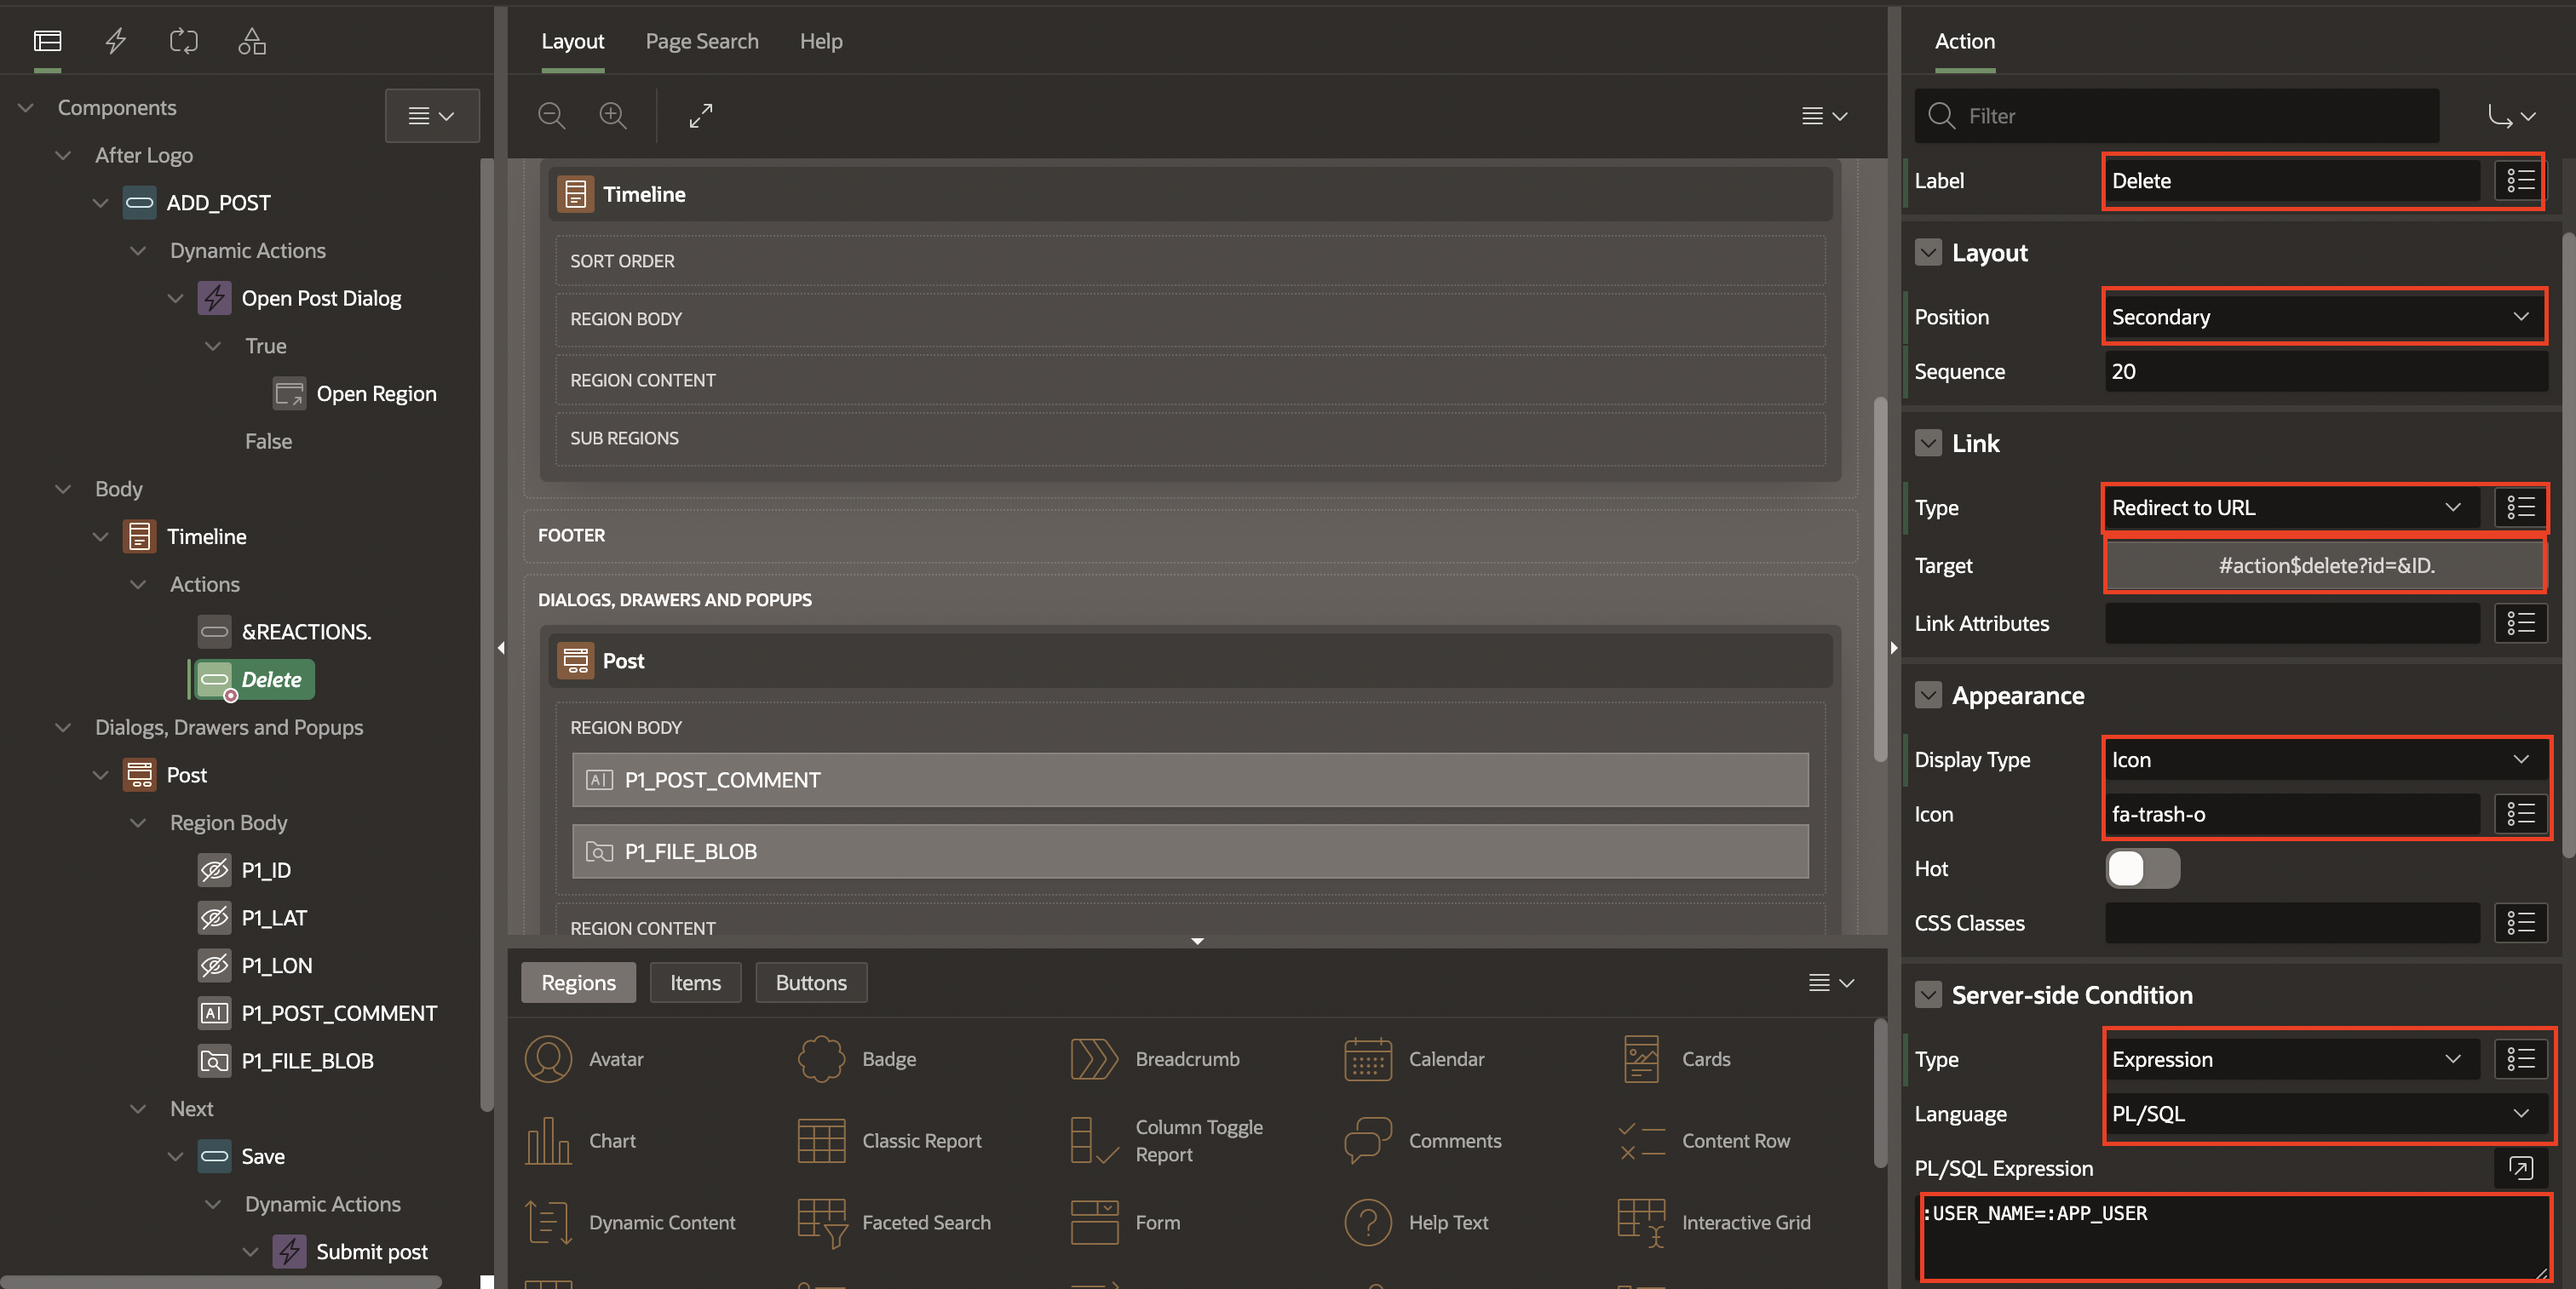
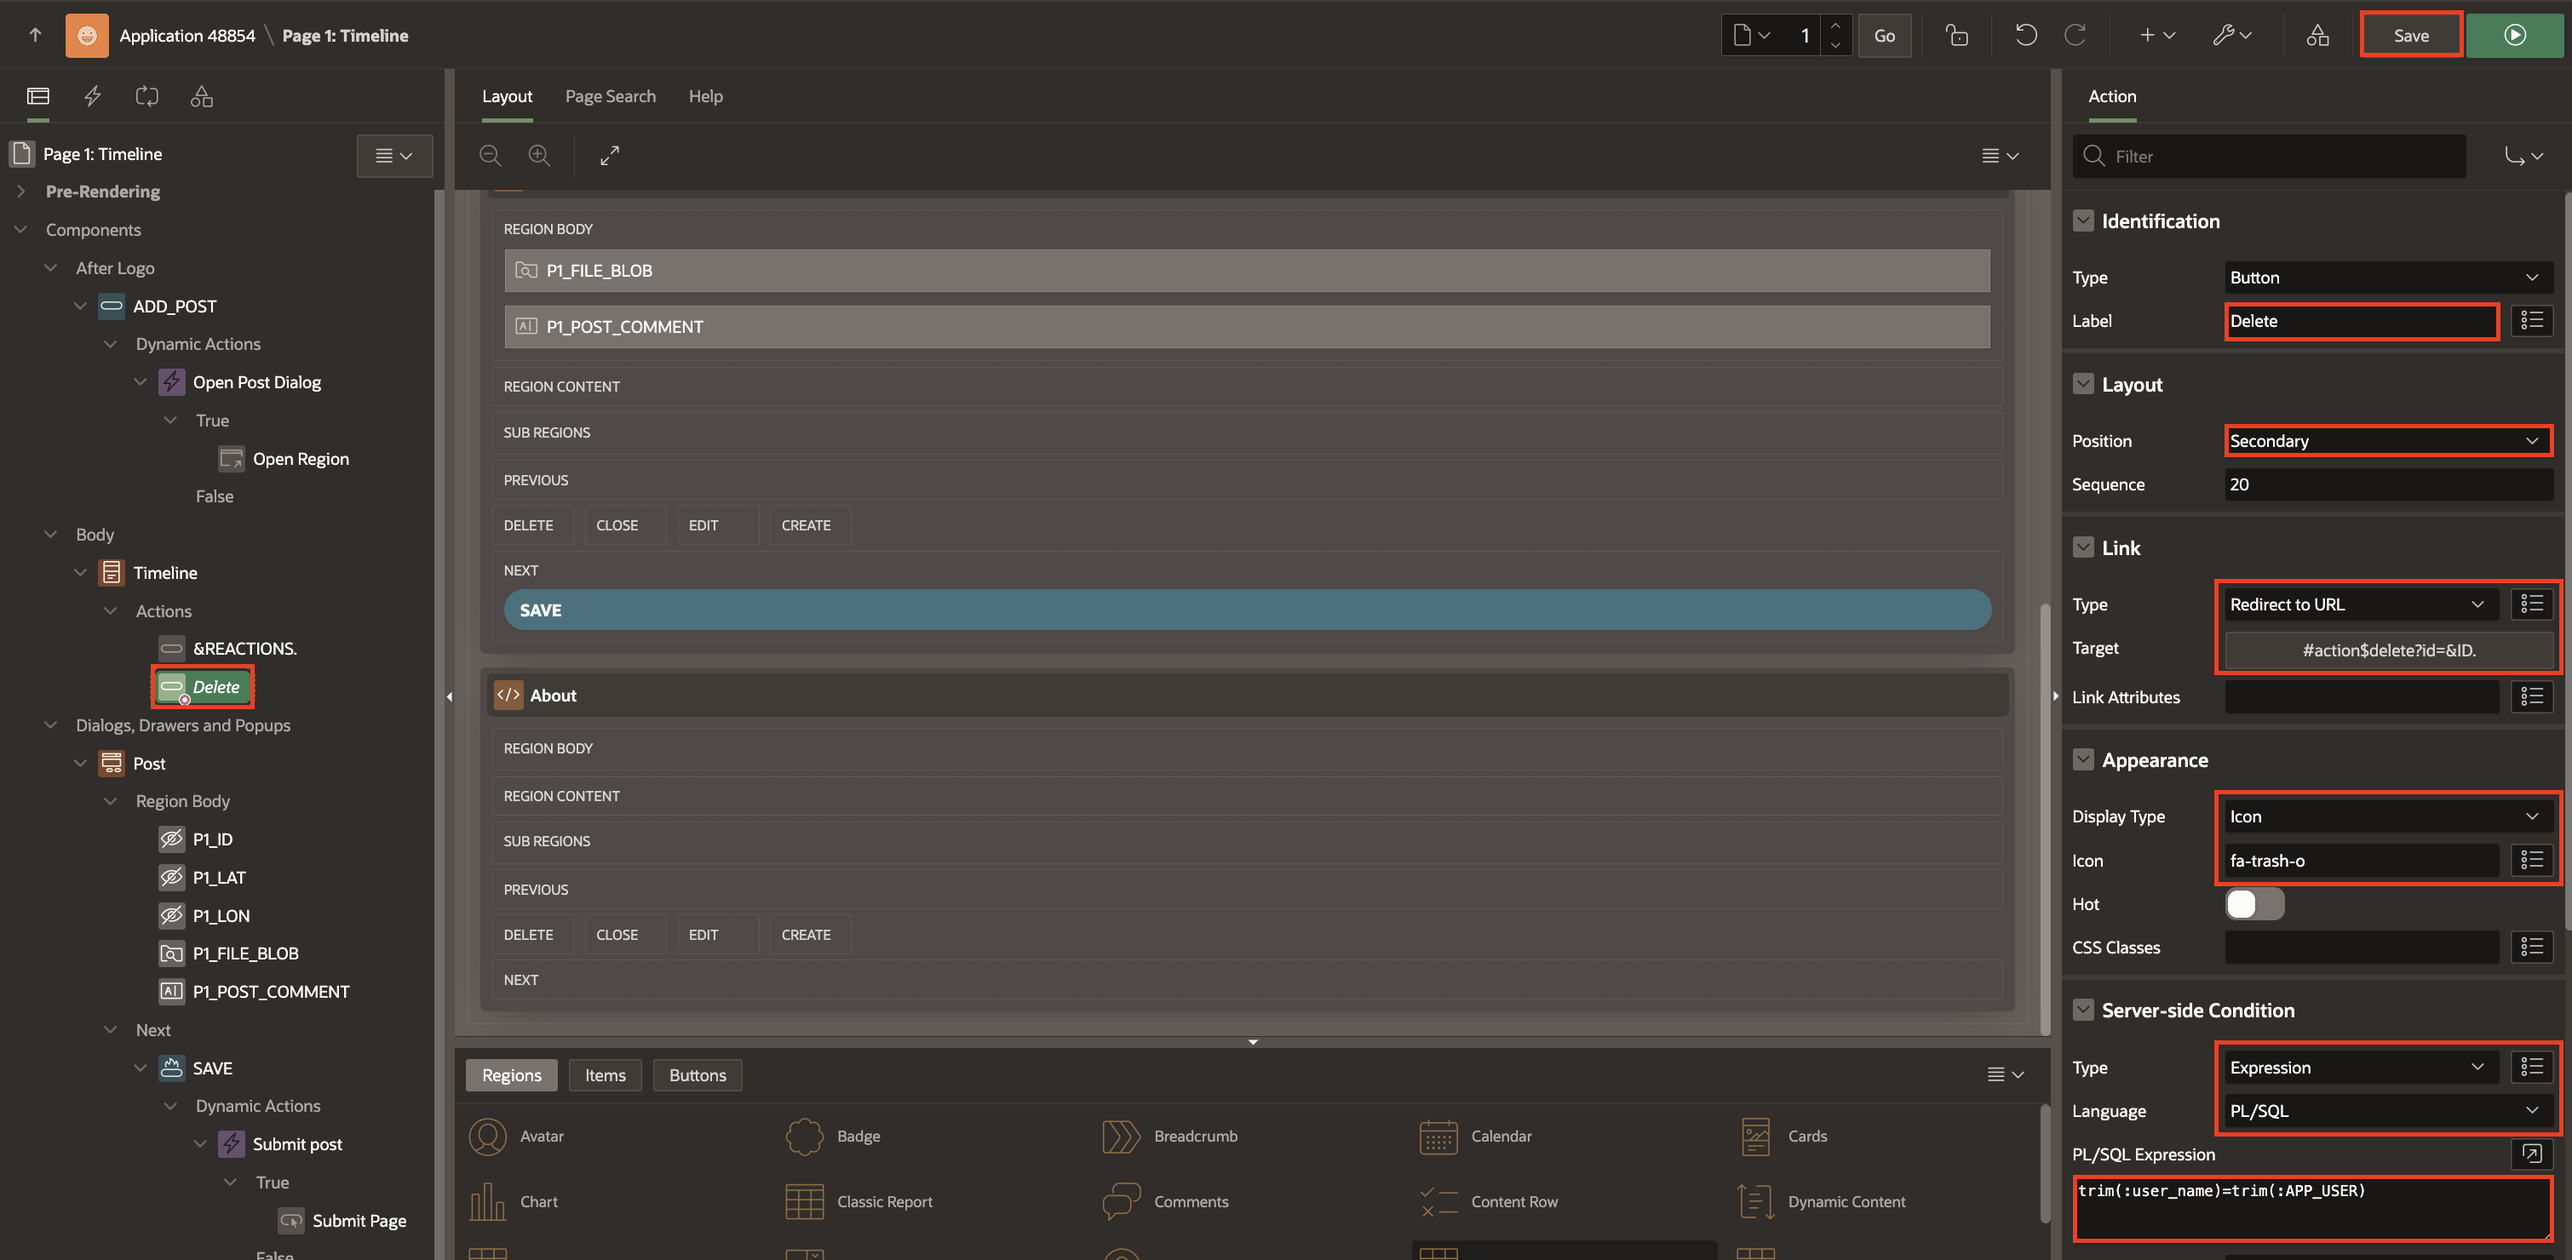
image update

diff --git a/social-media-app/7-customize-the-card/7-customize-the-card.md b/social-media-app/7-customize-the-card/7-customize-the-card.md
@@ -55,11 +55,9 @@ The **Like** button will show a heart icon along with the total number of likes.
 
         - CSS Classes : **js-heart-button**
 
+    **Save** the app.
+
     ![Property Editor](images/button-properties.png)
-
-4. **Save** the app.
-
-    ![Property Editor](images/save_app.png "")
 
     If you run the app now, the button will cause a JavaScript error because the necessary code hasn’t been added yet. We will fix this after creating the DELETE button.
 
@@ -92,15 +90,13 @@ Similar to the previous task, we will create another button for deleting posts. 
 
         - Type: **Expression**
 
-        - PL/SQL expression: **:USER\_NAME=:APP\_USER**
+        - PL/SQL expression: **trim(:user\_name)=trim(:APP\_USER)**
 
         This Server-side condition controls whether or not this **button** shows for a card. The expression will compare the query column value returned to the currently signed-in APEX user. The colon-prefixed "variable" syntax is called the "Bind Variable Syntax" in PL/SQL. If it evaluates to true (for each row or Card) then APEX will render the **Button**, otherwise the button is not visible.
 
+    Click **Save**.
+
     ![Property Editor](images/button-action1.png)
-
-3. **Save** the app.
-
-    ![Property Editor](images/save_app.png "")
 
 ## Task 3: Add Javascript to the Page for the Card Buttons
 
